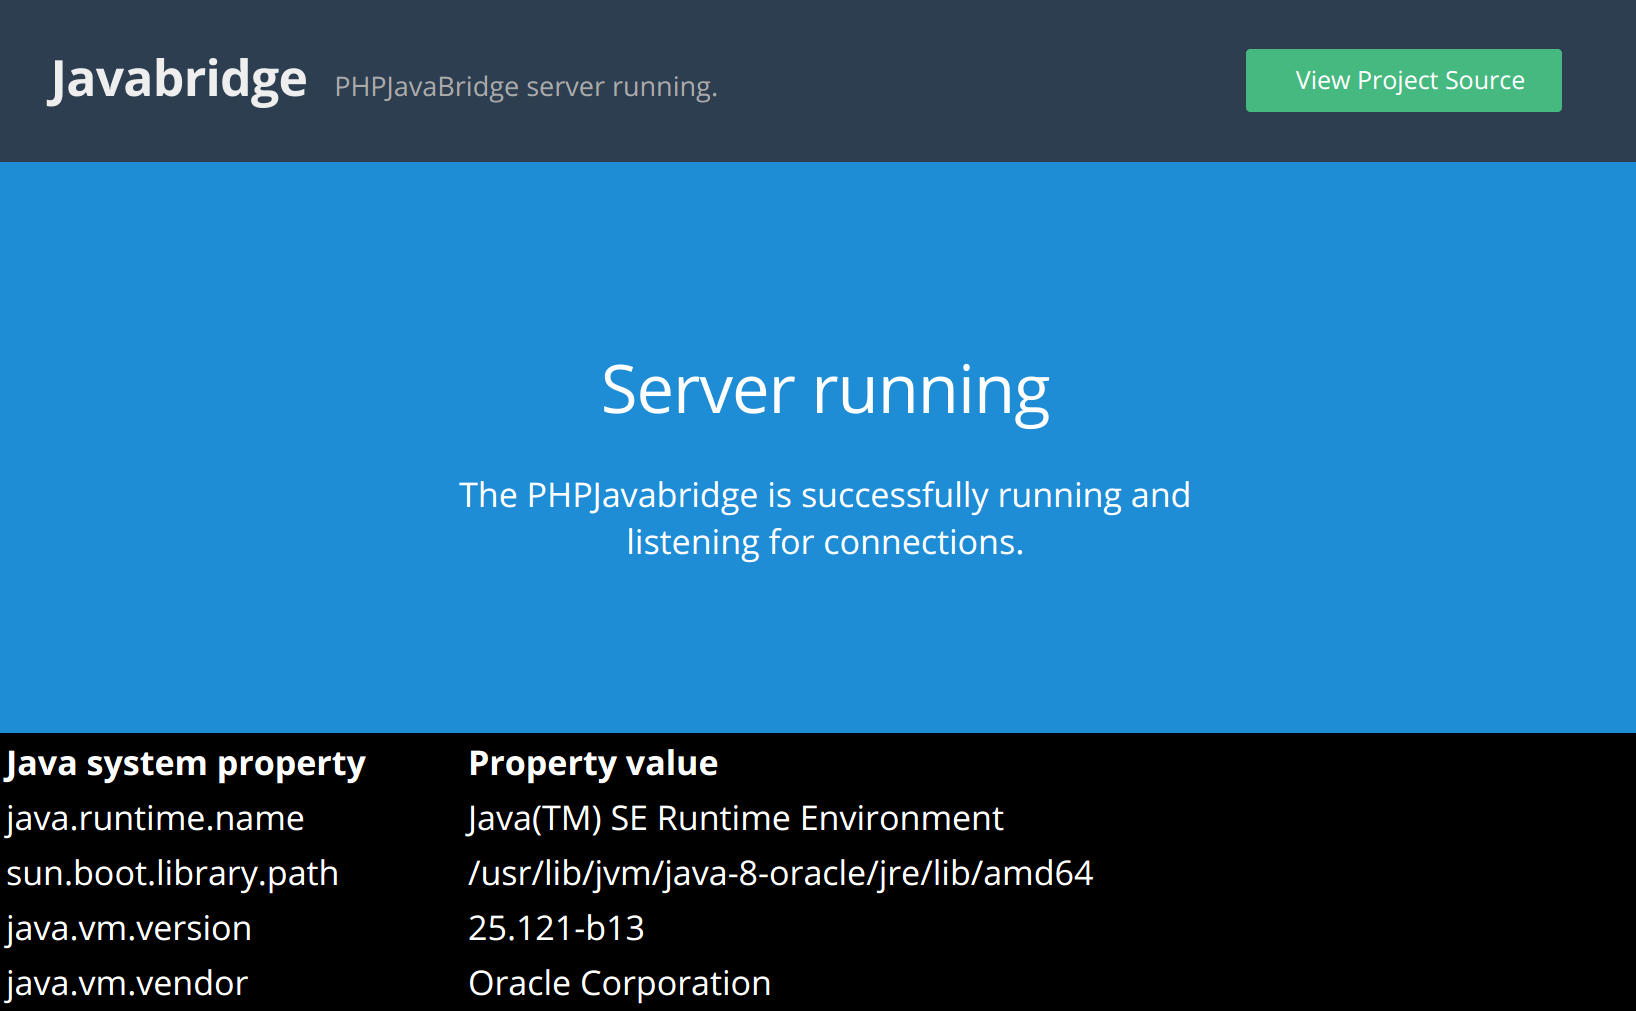
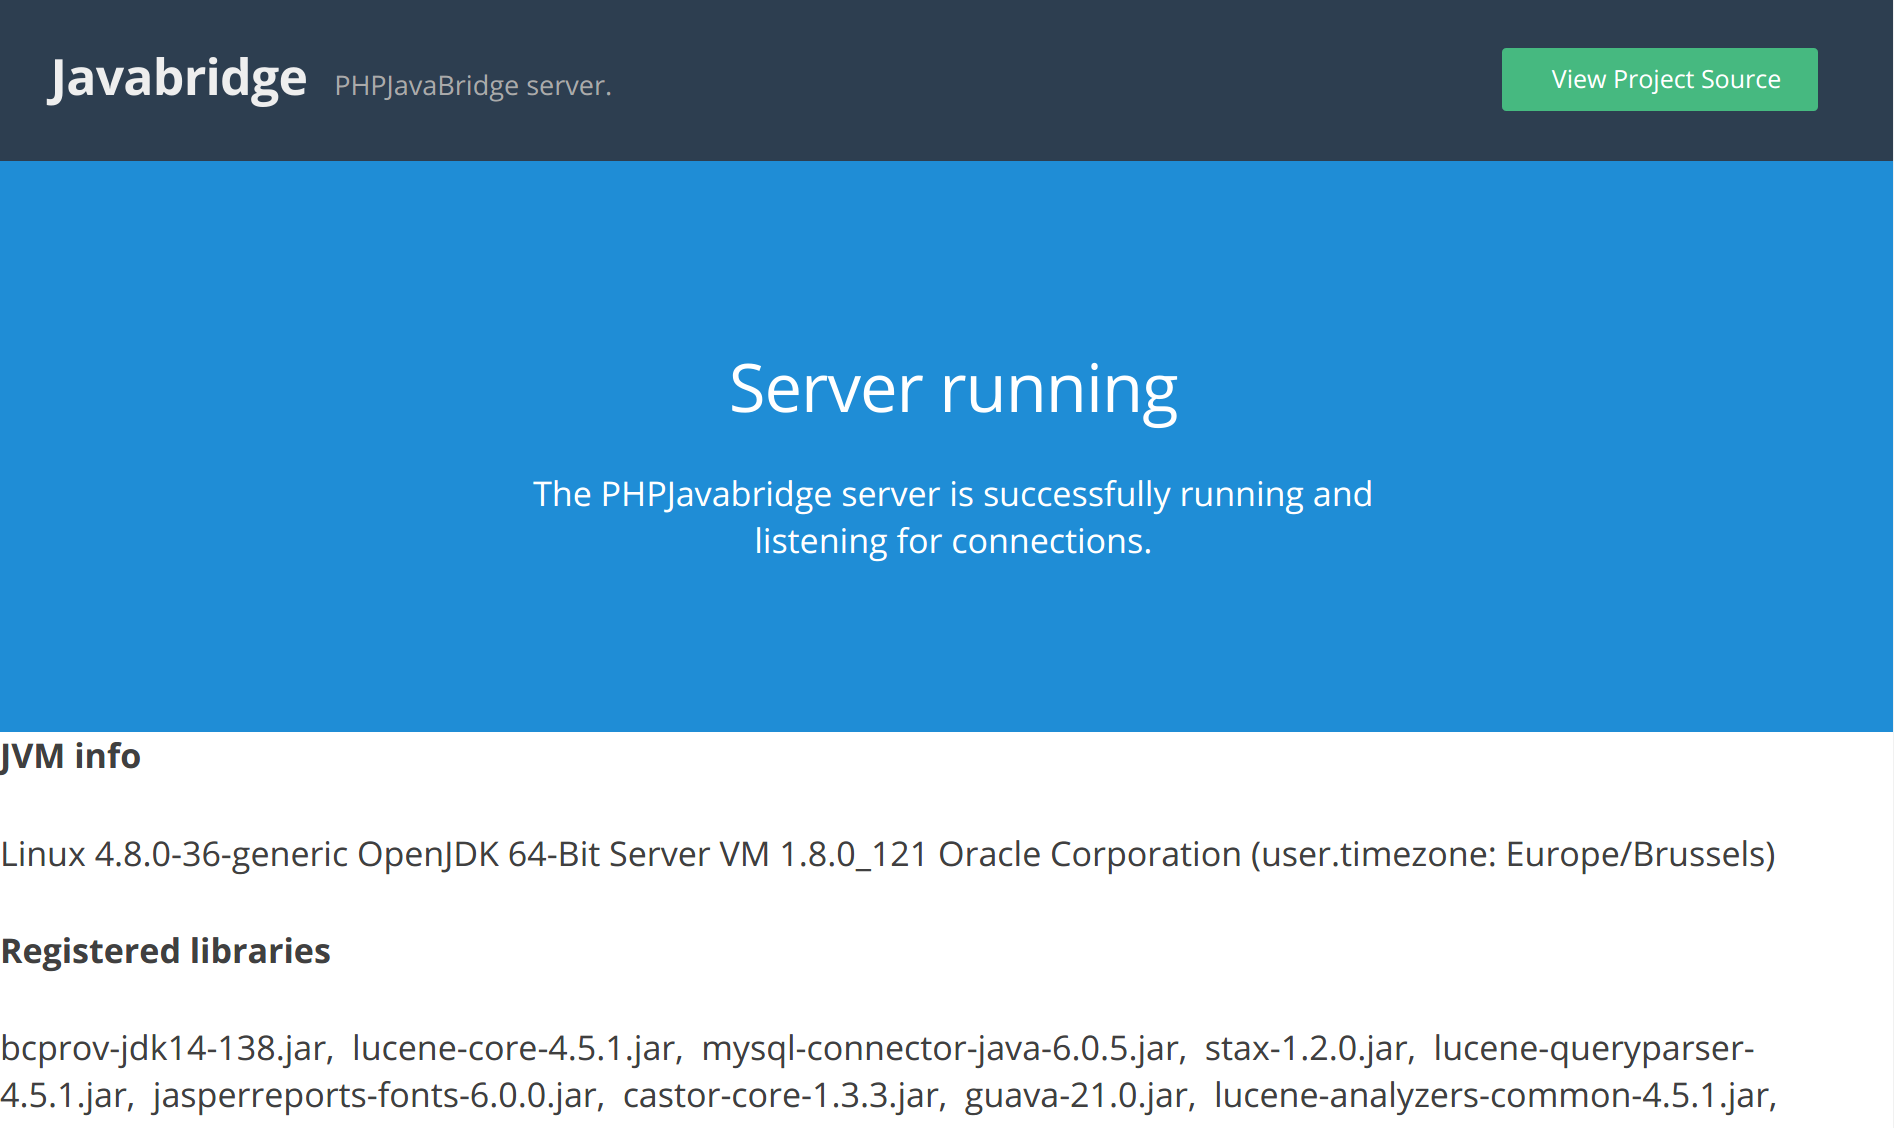
Updated dashboard with libraries

diff --git a/src/main/webapp/style.css b/src/main/webapp/style.css
@@ -285,7 +285,7 @@ strong {
 }
 .Container {
     margin: 0 auto;
-    max-width: 80em;
+    max-width: 100%;
 }
 .Landing {
     color: white;
